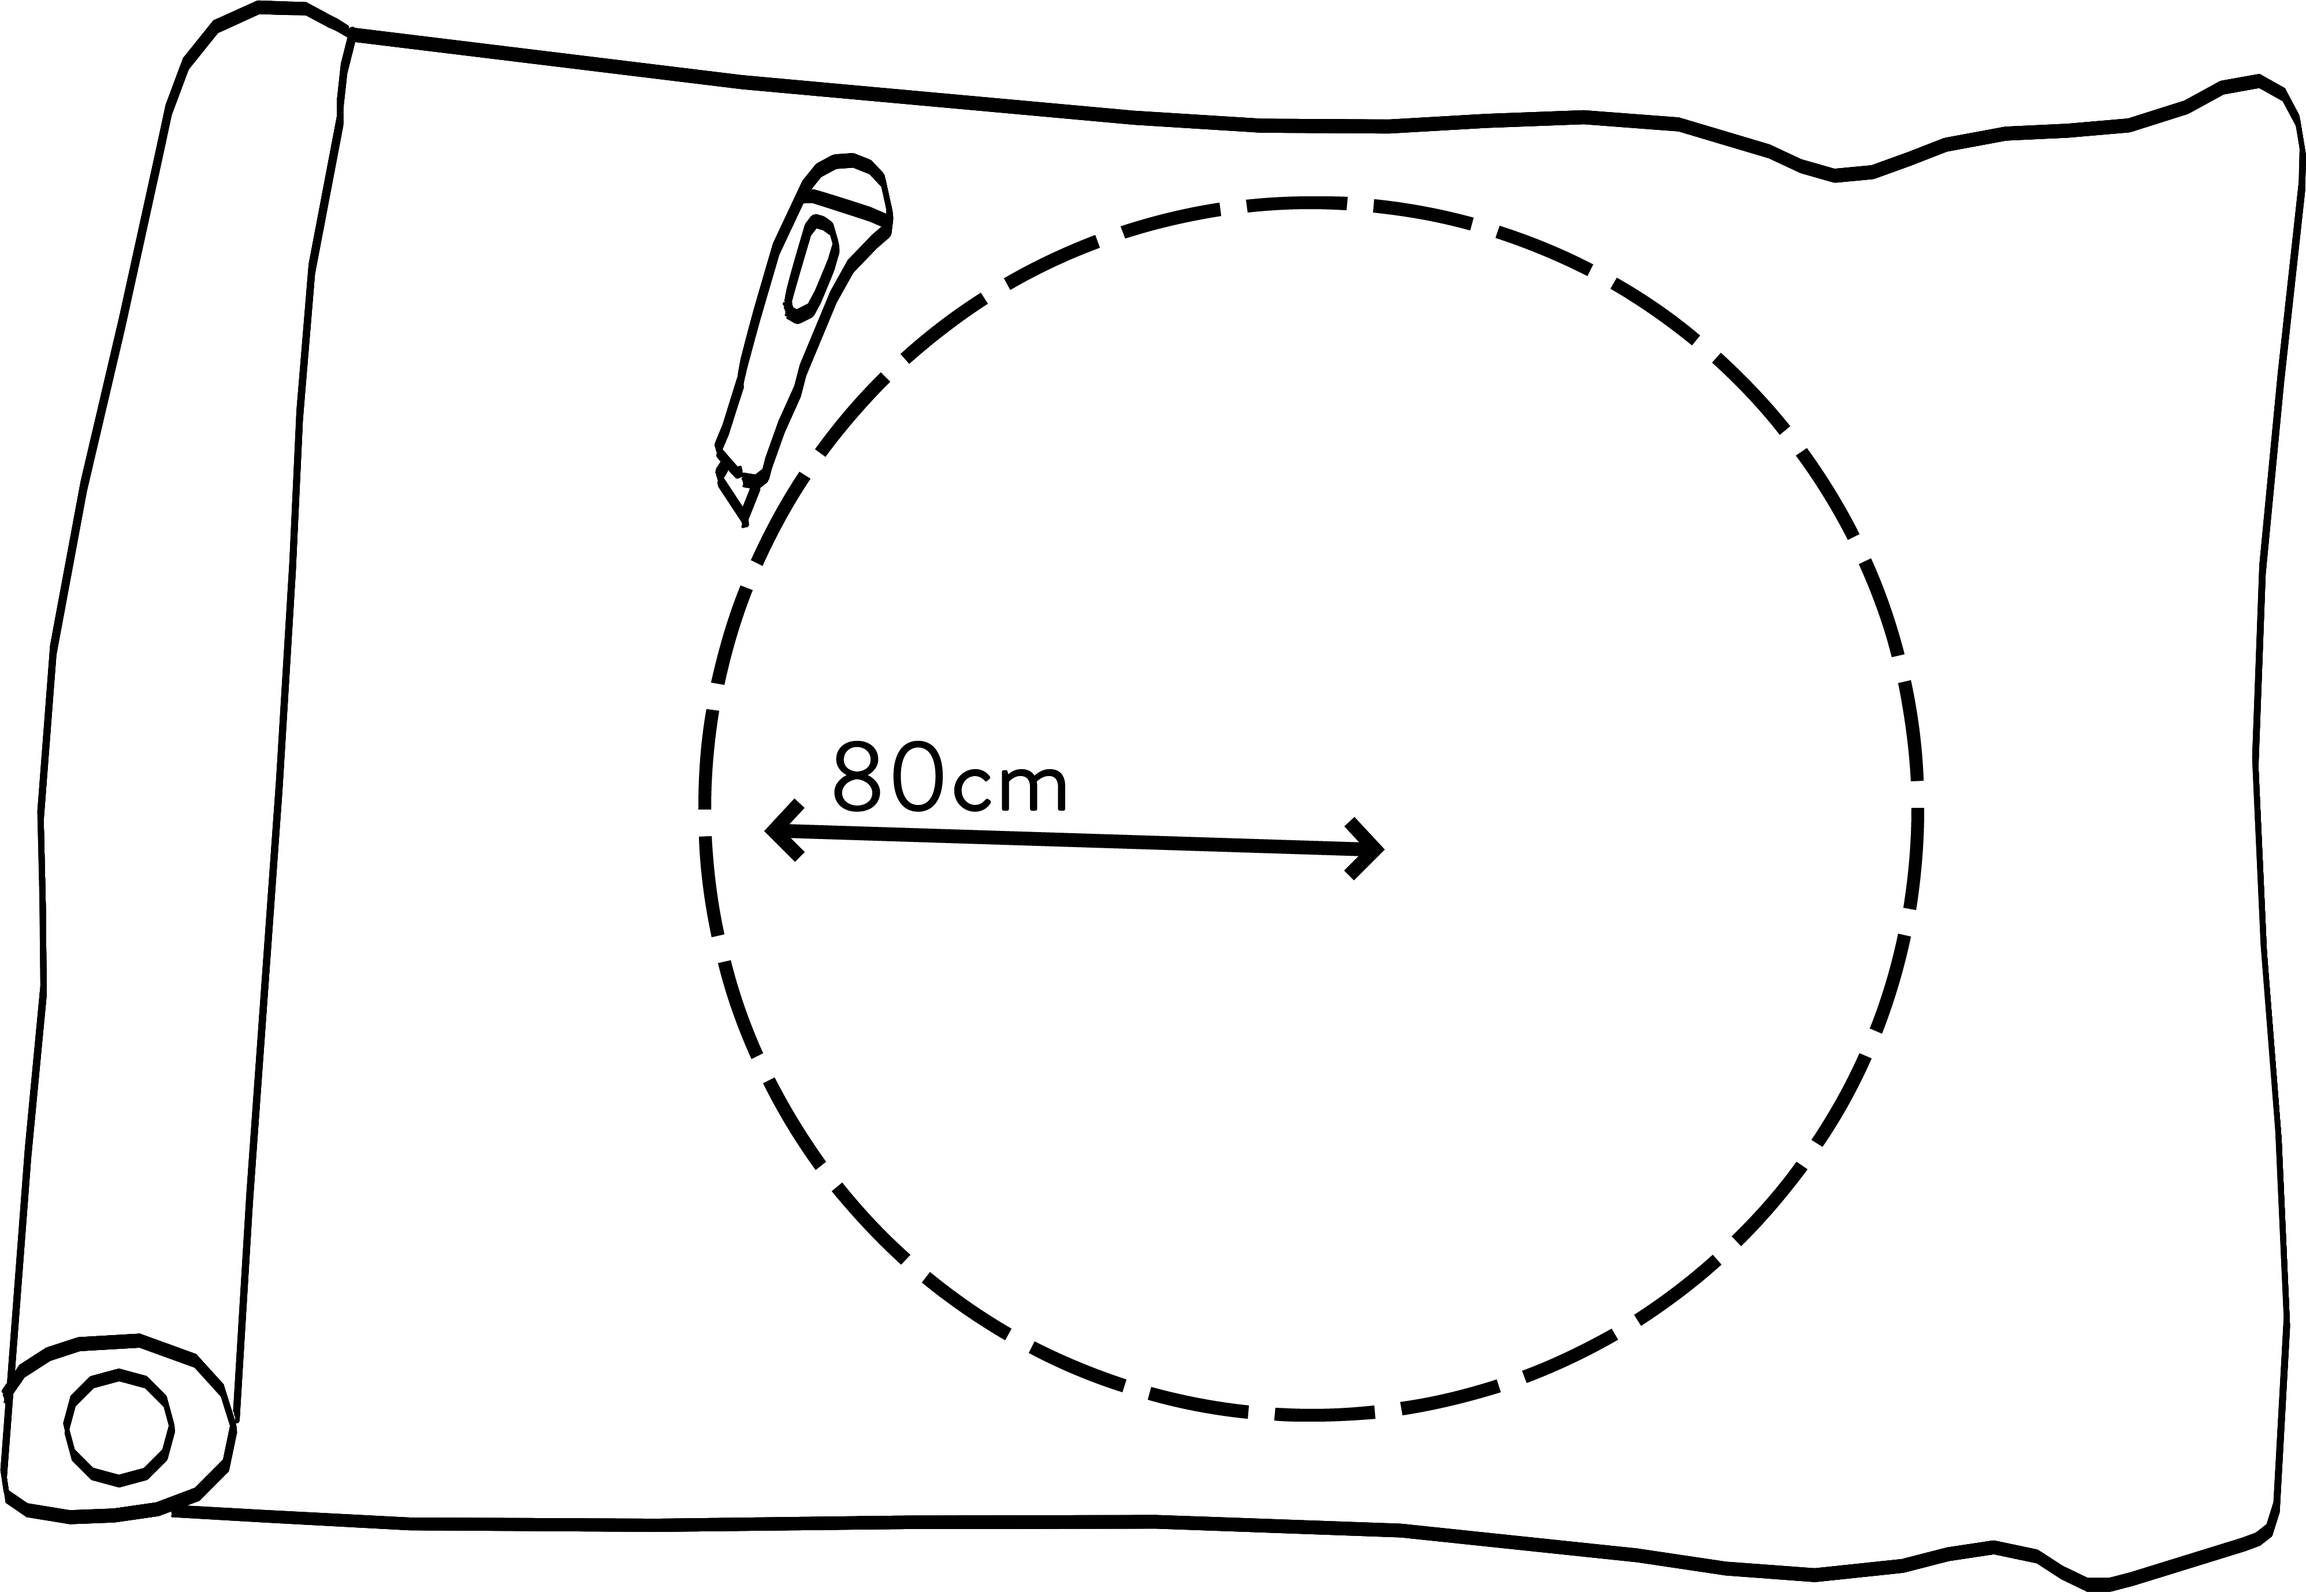
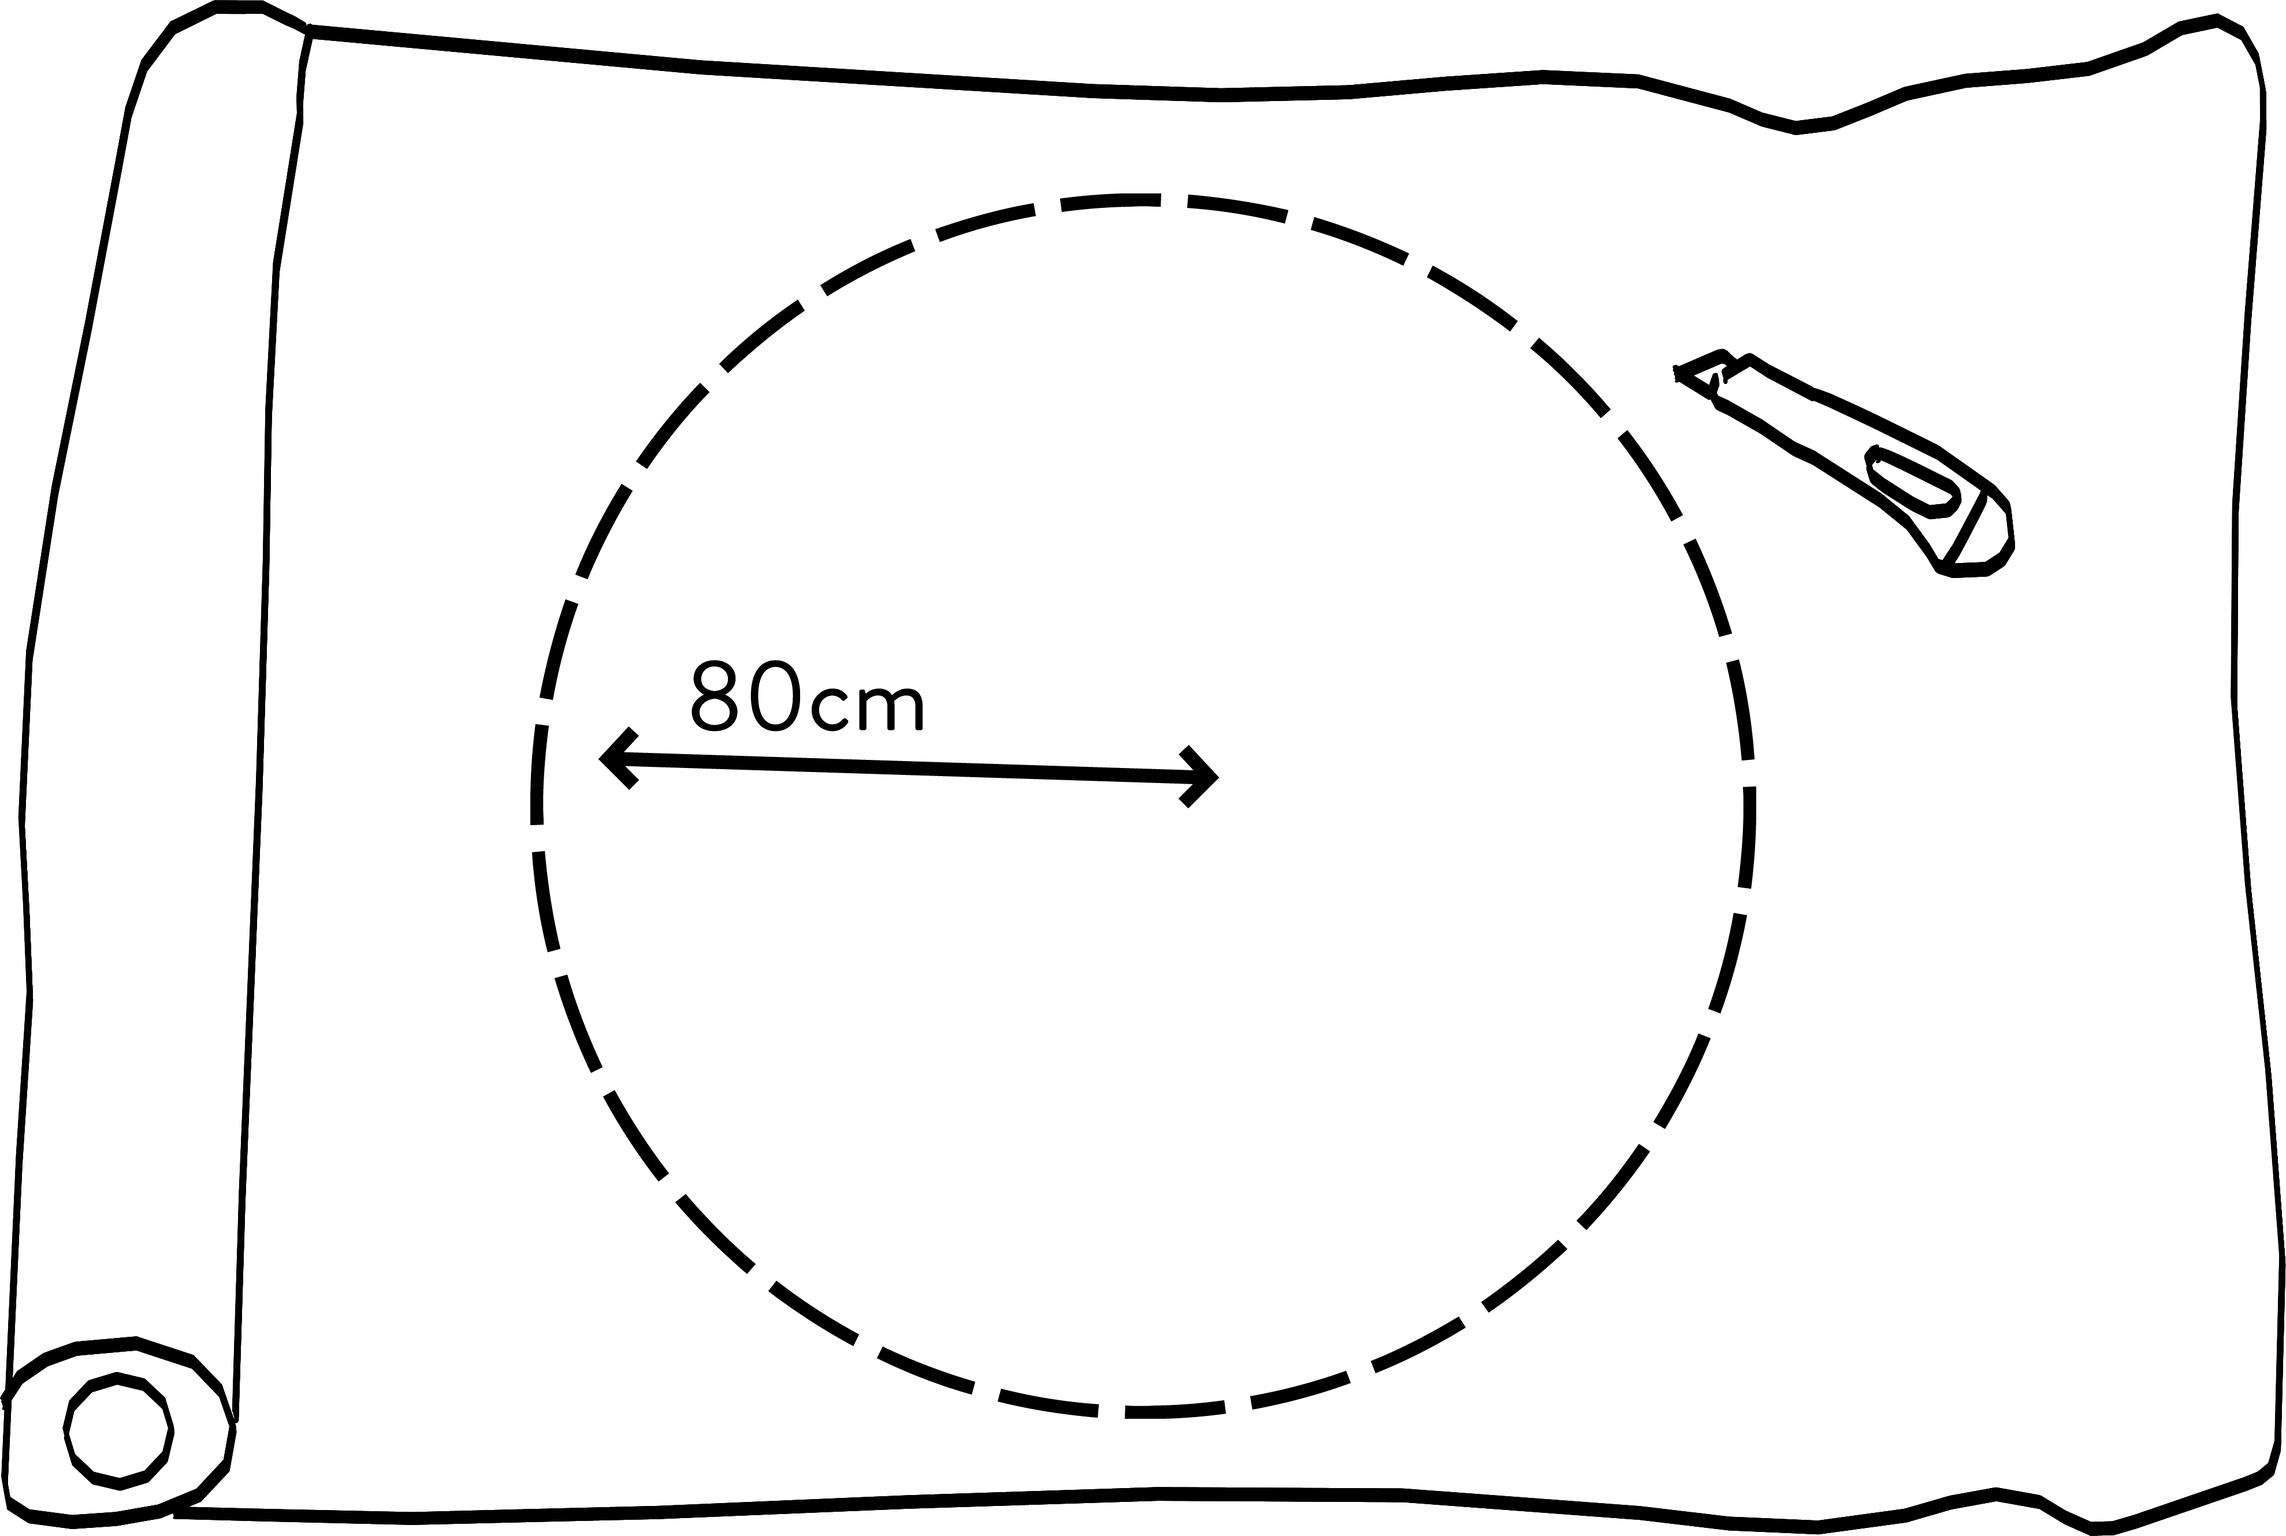
interactie javascript stap 3 #17

diff --git a/src/js/tutorial.js b/src/js/tutorial.js
@@ -62,6 +62,14 @@
           e.target.classList.remove(`box-image`);
         }
         e.target.innerHTML = e.dataTransfer.getData('text/html');
+        const image = document.querySelector(`.boxtarget`).classList.contains(`box-image`);
+        if (image) {
+          document.querySelector(`.zeil`).src = `./assets/img/zeil-interactie.png`;
+        }
+        const checks = document.querySelectorAll(`.check-zeil`)
+        checks.forEach(check =>{
+          check.checked = true;
+        });
       }
 
       return false;

diff --git a/src/css/tutorial/styleTutorialStep.css b/src/css/tutorial/styleTutorialStep.css
@@ -208,9 +208,14 @@
 }
 
 .boxtarget {
-  background-color: rgba(221, 221, 221, 0.37);
+  background-color: rgba(221, 221, 221, .37);
   width: 20rem;
   height: 17rem;
+}
+
+.box-width {
+  height: 17.4rem;
+  width: 20rem;
 }
 
 .box.over {
@@ -225,8 +230,7 @@
   content: '';
   background-image: url(../../assets/img/hout-staptwee.png);
   background-size: 20rem 17.4rem;
-  height: 17.4rem;
-  width: 20rem;
+
   background-repeat: no-repeat;
   background-position: center;
 }

diff --git a/src/css/tutorial/strucTutorialStep.css b/src/css/tutorial/strucTutorialStep.css
@@ -142,6 +142,7 @@
   justify-content: center;
   align-items: center;
   margin-bottom: 2rem;
+  position: relative;
 }
 
 .step-interact__button {
@@ -154,4 +155,8 @@
   position: absolute;
   right: 3.5rem;
   top: 80.5rem;
+}
+
+.container-target {
+  position: absolute;
 }

diff --git a/src/view/maker/tutorial.php b/src/view/maker/tutorial.php
@@ -150,15 +150,15 @@
               <img src="./assets/img/hand.png" alt="hand" width="20">
             </div>
             <div class="container">
-              <div class="box box-image" draggable="true"></div>
+              <div class="box box-image box-width" draggable="true"></div>
             </div>
           </div>
         </div>
         <div class="step-interact__zeil">
-          <div class="container">
+          <div class="container container-target">
             <div class="box boxtarget" draggable="true"></div>
           </div>
-          <img src="./assets/img/zeil-breekmes.png" alt="plank interact" width="290" height="auto">
+          <img class="zeil" src="./assets/img/zeil-breekmes.png" alt="plank interact" width="330" height="auto">
         </div>
       </div>
 
@@ -167,13 +167,13 @@
         <div class="step__goal-labels">
           <label class="step__goal-label">
             <p class="section-title step__goal-title">Snij een cirkel uit het zeil.</p>
-            <input class="step__goal-check" type="checkbox">
+            <input class="step__goal-check check-zeil" type="checkbox">
             <span class="checkmark"></span>
           </label>
 
           <label class="step__goal-label">
             <p class="section-title step__goal-title">Leg hout op het zeil</p>
-            <input class="step__goal-check" type="checkbox">
+            <input class="step__goal-check check-zeil" type="checkbox">
             <span class="checkmark"></span>
           </label>
         </div>
